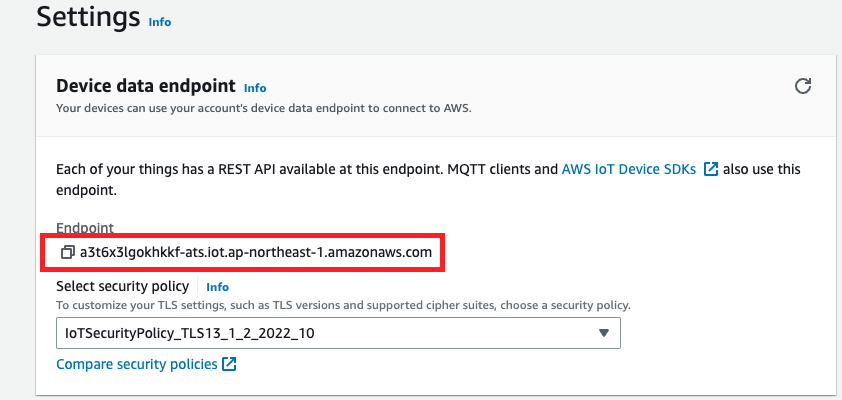
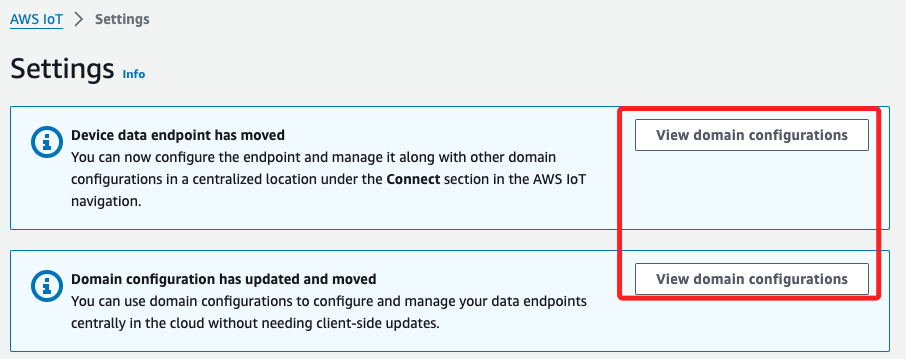
Commit on 2024-10-27 02:55:04

diff --git a/17_IoT Core/02_在樹莓派進行設置.md b/17_IoT Core/02_在樹莓派進行設置.md
@@ -286,9 +286,15 @@ _回到本機_
 
 <br>
 
-2. 畫面中央有個 `Endpoint`，這是代碼中 `awshost` 所需的值。
+2. 更新後 `Endpoint` 已經移除，點擊任一 `domain` 設置。
 
     ![](images/img_24.png)
+
+<br>
+
+3. 複製 `Domain name`。
+
+    ![](images/img_76.png)
 
 <br>
 
